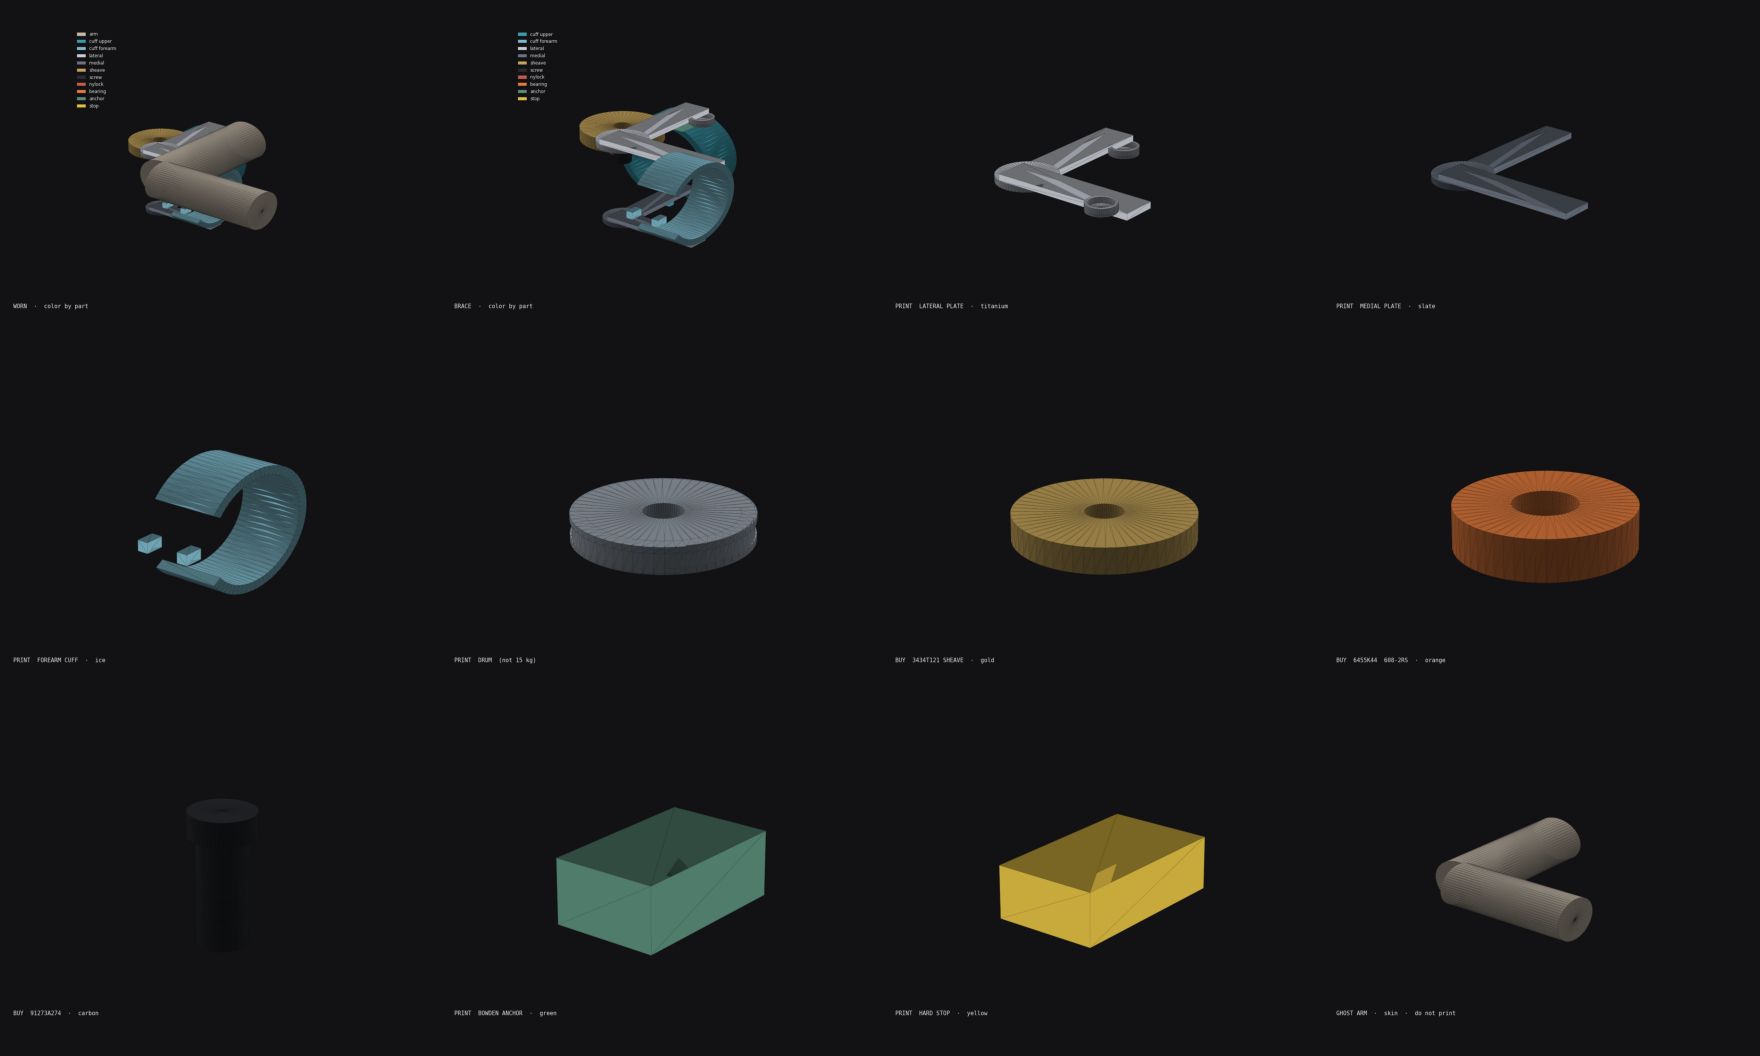
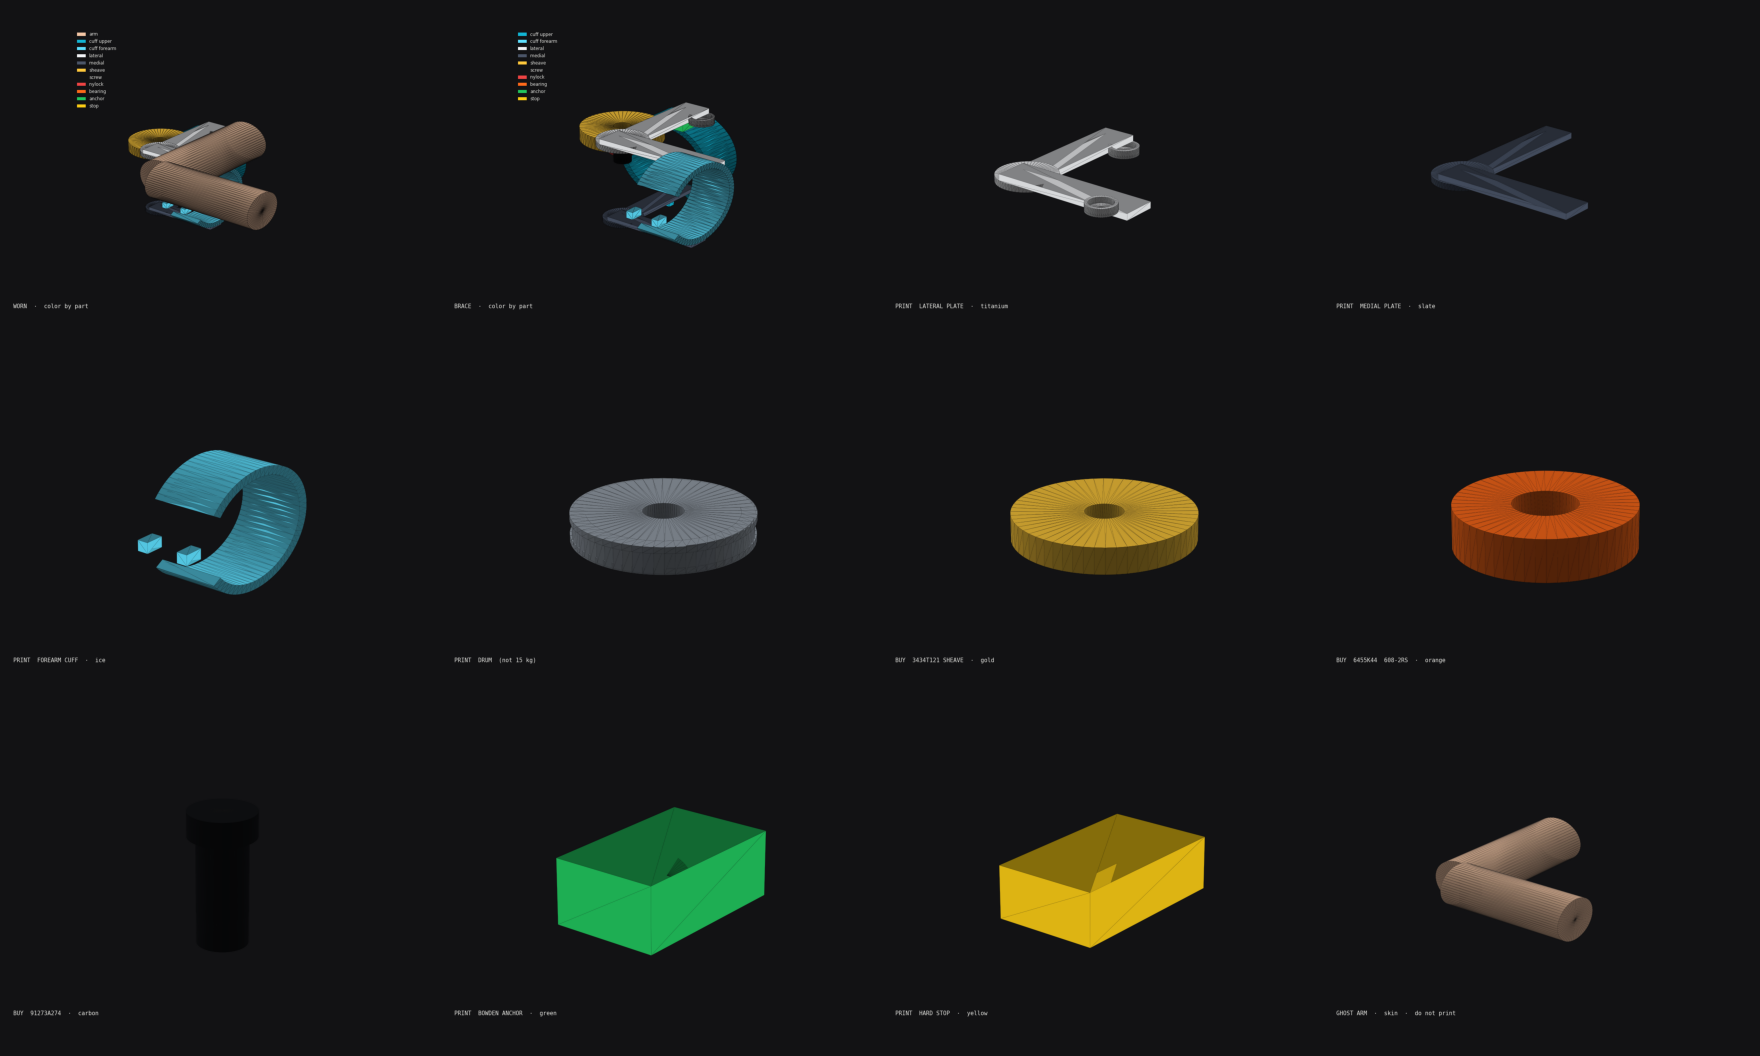
Punch CAD colors: cyan cuffs, gold sheave, orange 608s

diff --git a/src/lib/cdx.ts b/src/lib/cdx.ts
@@ -232,28 +232,28 @@ export const ELBOW_PRINT = [
 ] as const;
 
 export const ELBOW_PREVIEWS = [
-  { src: "/cad/elbow/preview/worn.png", title: "Worn — arm through, sheave outboard" },
-  { src: "/cad/elbow/preview/assembly.png", title: "Brace only" },
-  { src: "/cad/elbow/preview/sheave.png", title: "Buy — 3434T121 sheave" },
-  { src: "/cad/elbow/preview/bearing.png", title: "Buy — 608-2RS" },
-  { src: "/cad/elbow/preview/screw.png", title: "Buy — 3/4 in shoulder screw" },
-  { src: "/cad/elbow/preview/fork.png", title: "Print — lateral plate" },
-  { src: "/cad/elbow/preview/hub.png", title: "Print — medial plate" },
-  { src: "/cad/elbow/preview/cuff.png", title: "Print — cuff (arm goes through)" },
-  { src: "/cad/elbow/preview/anchor.png", title: "Print — Bowden anchor" },
-  { src: "/cad/elbow/preview/stop.png", title: "Print — hard stop" },
+  { src: "/cad/elbow/preview/worn.png?v=2", title: "Worn — arm through, sheave outboard" },
+  { src: "/cad/elbow/preview/assembly.png?v=2", title: "Brace only" },
+  { src: "/cad/elbow/preview/sheave.png?v=2", title: "Buy — 3434T121 sheave" },
+  { src: "/cad/elbow/preview/bearing.png?v=2", title: "Buy — 608-2RS" },
+  { src: "/cad/elbow/preview/screw.png?v=2", title: "Buy — 3/4 in shoulder screw" },
+  { src: "/cad/elbow/preview/fork.png?v=2", title: "Print — lateral plate" },
+  { src: "/cad/elbow/preview/hub.png?v=2", title: "Print — medial plate" },
+  { src: "/cad/elbow/preview/cuff.png?v=2", title: "Print — cuff (arm goes through)" },
+  { src: "/cad/elbow/preview/anchor.png?v=2", title: "Print — Bowden anchor" },
+  { src: "/cad/elbow/preview/stop.png?v=2", title: "Print — hard stop" },
 ] as const;
 
 export const ELBOW_SWATCHES = [
-  { id: "arm", label: "Ghost arm", hex: "#c4b8a8" },
-  { id: "cuff_upper", label: "Upper cuff", hex: "#3d9aad" },
-  { id: "cuff_forearm", label: "Forearm cuff", hex: "#7eb8c9" },
-  { id: "lateral", label: "Lateral plate", hex: "#c8ccd4" },
-  { id: "medial", label: "Medial plate", hex: "#6b7380" },
-  { id: "sheave", label: "3434T121 sheave", hex: "#c4a35a" },
-  { id: "screw", label: "Shoulder screw", hex: "#2a2c30" },
-  { id: "nylock", label: "Nylock", hex: "#c45c4a" },
-  { id: "bearing", label: "608-2RS", hex: "#e07a3d" },
-  { id: "anchor", label: "Bowden anchor", hex: "#5b8c7a" },
-  { id: "stop", label: "Hard stop", hex: "#e2c044" },
+  { id: "arm", label: "Ghost arm", hex: "#f3c6a5" },
+  { id: "cuff_upper", label: "Upper cuff", hex: "#12b5d4" },
+  { id: "cuff_forearm", label: "Forearm cuff", hex: "#5ee0ff" },
+  { id: "lateral", label: "Lateral plate", hex: "#f2f4f7" },
+  { id: "medial", label: "Medial plate", hex: "#4b5568" },
+  { id: "sheave", label: "3434T121 sheave", hex: "#ffc93c" },
+  { id: "screw", label: "Shoulder screw", hex: "#111215" },
+  { id: "bearing", label: "608-2RS", hex: "#ff6a1a" },
+  { id: "nylock", label: "Nylock", hex: "#ef4444" },
+  { id: "anchor", label: "Bowden anchor", hex: "#22c55e" },
+  { id: "stop", label: "Hard stop", hex: "#facc15" },
 ] as const;

diff --git a/src/components/cdx/cad-viewer.tsx b/src/components/cdx/cad-viewer.tsx
@@ -31,12 +31,12 @@ const LAYERS = {
 } as const;
 
 const SOLO = [
-  { id: "print_fork_lateral", label: "Lateral plate", file: "/cad/elbow/print_fork_lateral.stl", color: 0xc8ccd4 },
-  { id: "print_fork_medial", label: "Medial plate", file: "/cad/elbow/print_fork_medial.stl", color: 0x6b7380 },
-  { id: "print_cuff_forearm", label: "Cuff", file: "/cad/elbow/print_cuff_forearm.stl", color: 0x7eb8c9 },
-  { id: "ref_sheave", label: "Sheave", file: "/cad/elbow/ref_sheave_DO_NOT_PRINT.stl", color: 0xc4a35a },
-  { id: "ref_608", label: "608-2RS", file: "/cad/elbow/ref_608_DO_NOT_PRINT.stl", color: 0xe07a3d },
-  { id: "ref_screw", label: "Shoulder screw", file: "/cad/elbow/ref_shoulder_screw_DO_NOT_PRINT.stl", color: 0x2a2c30 },
+  { id: "print_fork_lateral", label: "Lateral plate", file: "/cad/elbow/print_fork_lateral.stl", color: 0xf2f4f7 },
+  { id: "print_fork_medial", label: "Medial plate", file: "/cad/elbow/print_fork_medial.stl", color: 0x4b5568 },
+  { id: "print_cuff_forearm", label: "Cuff", file: "/cad/elbow/print_cuff_forearm.stl", color: 0x5ee0ff },
+  { id: "ref_sheave", label: "Sheave", file: "/cad/elbow/ref_sheave_DO_NOT_PRINT.stl", color: 0xffc93c },
+  { id: "ref_608", label: "608-2RS", file: "/cad/elbow/ref_608_DO_NOT_PRINT.stl", color: 0xff6a1a },
+  { id: "ref_screw", label: "Shoulder screw", file: "/cad/elbow/ref_shoulder_screw_DO_NOT_PRINT.stl", color: 0x111215 },
 ] as const;
 
 type View = "worn" | "brace" | (typeof SOLO)[number]["id"];

diff --git a/src/routes/index.tsx b/src/routes/index.tsx
@@ -311,7 +311,7 @@ function Cad() {
         a 3434T157 ball-bearing sheave later — do not reprint.
       </p>
       <img
-        src="/cad/elbow/preview/worn.png"
+        src="/cad/elbow/preview/worn.png?v=2"
         alt="Wearable elbow: ghost arm through cuffs, sheave outboard on the lateral plate"
         className="mb-4 w-full rounded-lg border border-border"
       />

diff --git a/cad/elbow/render_previews.py b/cad/elbow/render_previews.py
@@ -71,7 +71,14 @@ def render_layers(names: list[str], out: Path, title: str):
         tris = read_stl(path)
         color = PALETTE[name]
         ax.add_collection3d(
-            Poly3DCollection(tris, facecolors=color, edgecolors="#1a1a1c", linewidths=0.08, shade=True)
+            Poly3DCollection(
+                tris,
+                facecolors=color,
+                edgecolors="#0a0a0c",
+                linewidths=0.2,
+                alpha=1.0,
+                shade=True,
+            )
         )
         chunks.append(tris.reshape(-1, 3))
         legend.append(Patch(facecolor=color, edgecolor="none", label=name.replace("_", " ")))

diff --git a/cad/elbow/build_stl.py b/cad/elbow/build_stl.py
@@ -313,17 +313,17 @@ def sheave() -> Mesh:
 
 
 PALETTE = {
-    "cuff_upper": "#3d9aad",
-    "cuff_forearm": "#7eb8c9",
-    "lateral": "#c8ccd4",
-    "medial": "#6b7380",
-    "sheave": "#c4a35a",
-    "screw": "#2a2c30",
-    "nylock": "#c45c4a",
-    "bearing": "#e07a3d",
-    "anchor": "#5b8c7a",
-    "stop": "#e2c044",
-    "arm": "#c4b8a8",
+    "cuff_upper": "#12b5d4",
+    "cuff_forearm": "#5ee0ff",
+    "lateral": "#f2f4f7",
+    "medial": "#4b5568",
+    "sheave": "#ffc93c",
+    "screw": "#111215",
+    "nylock": "#ef4444",
+    "bearing": "#ff6a1a",
+    "anchor": "#22c55e",
+    "stop": "#facc15",
+    "arm": "#f3c6a5",
 }
 
 
